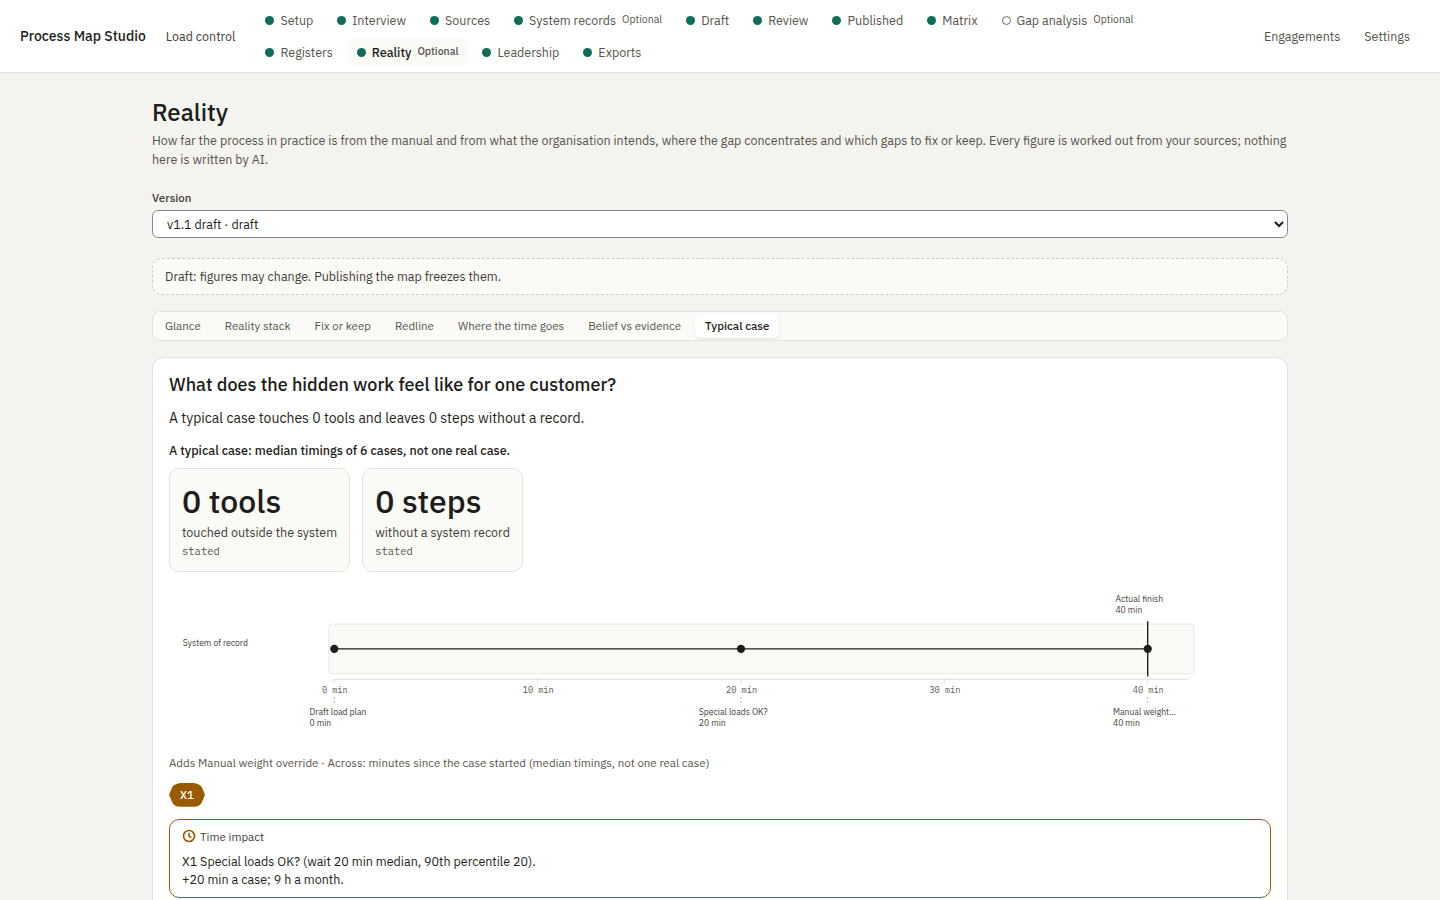
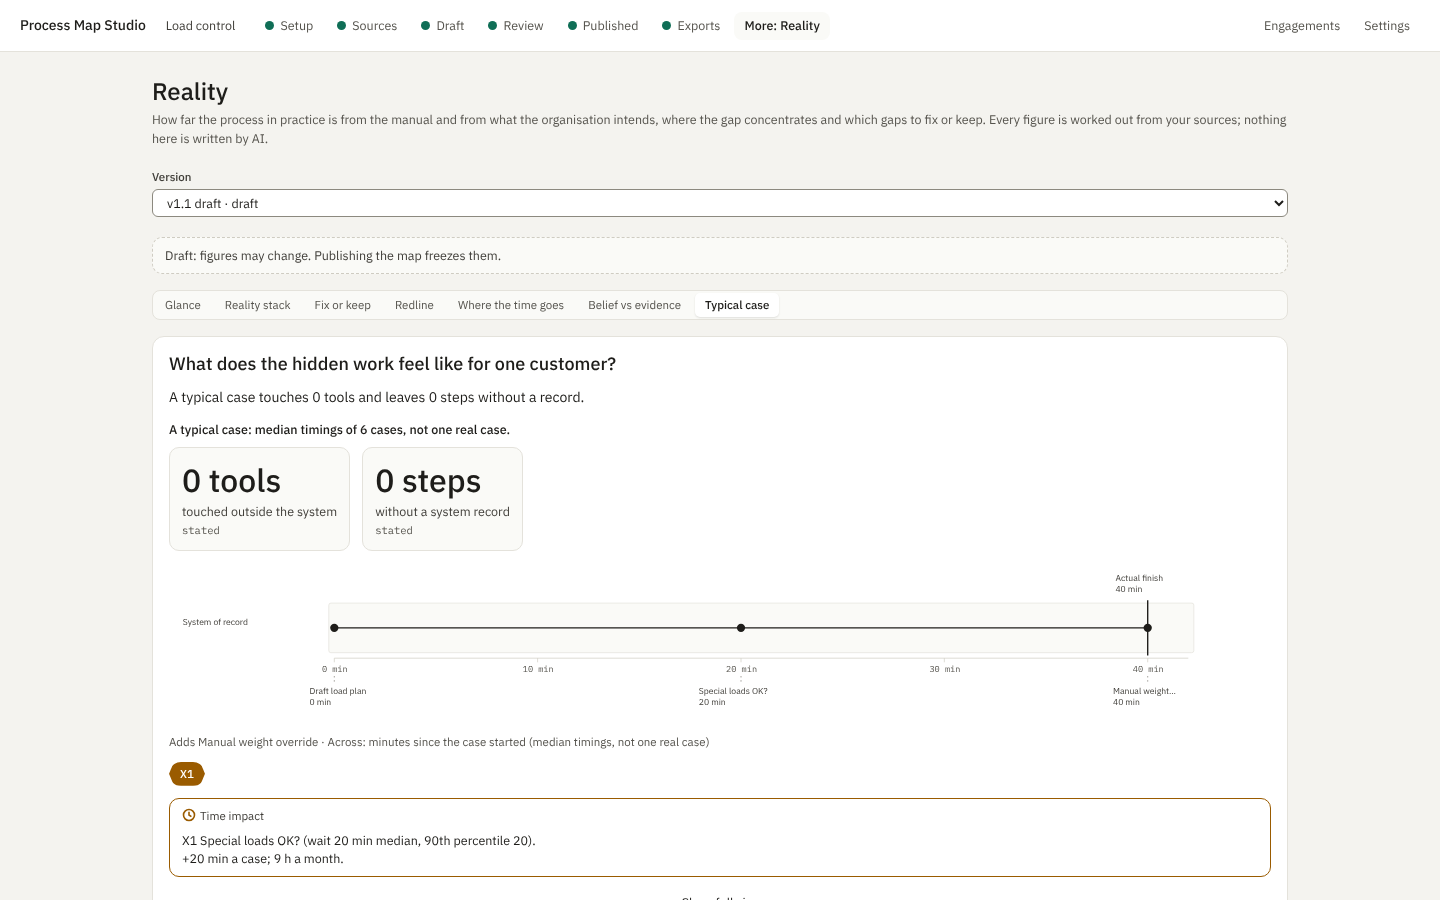
Make the approved Review and Reality screenshots the baselines
Eric approved the nine screenshots changed by the What to do next card
and the shorter top bar: Review at 1440x900 and 1080x800, and the seven
Reality views (only the top bar changed). DECISIONS 79.

14 of 14 checks passing.

Claude-Session: https://claude.ai/code/session_015fu8rvp8x8i73CNVXAvCz5

diff --git a/PROJECT_STATE.md b/PROJECT_STATE.md
@@ -352,7 +352,7 @@ P12 follows PRD §6.3 P12, §3.10 (clean-clone rehearsal, v1.0.0 release) and §
 ## How to resume (write this as if for a stranger)
 **Update 2026-10-12:** PRD v1.12 is in the repository (Reality views, P13). Eric reviews the design canvas and the PRD; if he approves, the order stays: R10 → R11 → R12 (close P10b) → P12 live run → P13a–P13d (PRD §8 "Feature prompt: Reality views"). Nothing in v1.12 changes built behaviour except the proposed coral clean-up (needs his approval of new Review baselines).
 
-**Update 2026-10-13:** Eric approved v1.12 and R10. R10 is done (R10a Settings Regional and Optional modules; R10b the panel's Disposition and value; R10c the Disposition and value register), each commit 13 of 13 checks and pushed. No visual baseline changed (everything new sits behind the value switch, off by default). **Update 2026-10-13 (later):** R11 and R12 done; **P10b is closed** (tag `phase-p10b`). **Resume point:** the P12 live run with Eric's key (P12-5, then P12-6 close P12 and v1.0.0), then P13a–P13d (PRD §8 "Feature prompt: Reality views"). Still waiting for Eric: the coral clean-up proposal at P13a. **Update 2026-10-13 (P13a):** Eric approved P13a ahead of the live run. **P13a is closed** (tag `phase-p13a`). **Waiting for Eric:** approval of the coral clean-up candidates (Time lens wait hatch in the time colour). **Resume point:** P13b (Reality screen I) on Eric's go-ahead; the P12 live run whenever Eric has his key ready. **Update 2026-10-14:** F1 (system alignment survives a refresh) and F2 (incomplete-data sweep, 11 combinations, no defects) done before P13b, at Eric's request. **P13b is closed** (tag `phase-p13b`). **Resume point:** P13c (Redline, Where the time goes, Belief vs evidence, Typical case) on Eric's go-ahead. Still waiting for Eric: the coral clean-up candidates; the P12 live run with his key. **Update 2026-10-15:** Eric approved the coral clean-up (applied) and P13c. **P13c is closed** (tag `phase-p13c`, local). **Resume point:** P13d (Reality pack, RQ1–RQ10, G11, visual baselines after Eric approves the candidates). **Waiting for Eric:** the scope-card question for the "Outside the organisation" lane (DECISIONS 47); whether Leadership's wait hatch should also move to the time colour; the P12 live run with his key. **Update 2026-10-15 (later):** Eric said yes to both: E1 (scope card tick boxes and the outside lane) and E2 (Leadership's hatch in the time colour) are done. **Resume point:** P13d. **Waiting for Eric:** the P12 live run with his key. **Update 2026-10-16:** P13d is built (Reality pack in A3 and 16:9, RQ1–RQ10 as their own check, the G11 candidate, candidate screenshots, the comprehension test protocol, README and GUIDE). **Waiting for Eric:** approve `docs/screens/p13d-candidate-*.png` and `docs/review/G11_*` (then copy the G11 files into `backend/tests/golden/` and add the screenshot comparisons), run `docs/comprehension_test.md` and give the results (log them in DECISIONS.md); then tag `phase-p13` (local; tag pushes are refused). Also still: the P12 live run with his key. **Update 2026-10-18:** Eric approved the screenshots and G11; both are baselines now (DECISIONS 61). **Waiting for Eric:** the comprehension test results; then tag `phase-p13`. **Update 2026-10-20:** At Eric's request a map can now be drafted from documents alone (an SOP or manual, no interview): readiness, a Limited "documents only" signal with its own warning, question wording, the Review screen opening As documented, the Draft checklist and Sources readiness line; mock fixtures, a journey test and two new F2 scenarios (DECISIONS 75). No visual baseline changed. Then three Review wordings fixed after Eric saw the screenshots: the As done legend, "Not stated" for a cycle time with no times, "No steps described yet" for an empty view (DECISIONS 76). **Update 2026-10-28:** Eric's live run (key works) on his single-source cargo manual led to DECISIONS 77: diagram pages read box by box with their team labels; logos never suggested and each picture suggested once, with Discard all; a stamped draft map download; Accept remaining steps as drafted; a What to do next card and grouped Publish blocked list; a slimmer bar with More; Review opens on the view with more steps; a Setup hint for documents covering several flows. Five Reality pack baselines were re-rendered for the newer test browser with Eric's approval (DECISIONS 78). **Waiting for Eric:** approval of the new Review and Reality screenshots (the What to do next card and the More button change them); the comprehension test (then tag `phase-p13`). **Waiting for Eric:** the comprehension test results (then tag `phase-p13`); the P12 live run with his key.
+**Update 2026-10-13:** Eric approved v1.12 and R10. R10 is done (R10a Settings Regional and Optional modules; R10b the panel's Disposition and value; R10c the Disposition and value register), each commit 13 of 13 checks and pushed. No visual baseline changed (everything new sits behind the value switch, off by default). **Update 2026-10-13 (later):** R11 and R12 done; **P10b is closed** (tag `phase-p10b`). **Resume point:** the P12 live run with Eric's key (P12-5, then P12-6 close P12 and v1.0.0), then P13a–P13d (PRD §8 "Feature prompt: Reality views"). Still waiting for Eric: the coral clean-up proposal at P13a. **Update 2026-10-13 (P13a):** Eric approved P13a ahead of the live run. **P13a is closed** (tag `phase-p13a`). **Waiting for Eric:** approval of the coral clean-up candidates (Time lens wait hatch in the time colour). **Resume point:** P13b (Reality screen I) on Eric's go-ahead; the P12 live run whenever Eric has his key ready. **Update 2026-10-14:** F1 (system alignment survives a refresh) and F2 (incomplete-data sweep, 11 combinations, no defects) done before P13b, at Eric's request. **P13b is closed** (tag `phase-p13b`). **Resume point:** P13c (Redline, Where the time goes, Belief vs evidence, Typical case) on Eric's go-ahead. Still waiting for Eric: the coral clean-up candidates; the P12 live run with his key. **Update 2026-10-15:** Eric approved the coral clean-up (applied) and P13c. **P13c is closed** (tag `phase-p13c`, local). **Resume point:** P13d (Reality pack, RQ1–RQ10, G11, visual baselines after Eric approves the candidates). **Waiting for Eric:** the scope-card question for the "Outside the organisation" lane (DECISIONS 47); whether Leadership's wait hatch should also move to the time colour; the P12 live run with his key. **Update 2026-10-15 (later):** Eric said yes to both: E1 (scope card tick boxes and the outside lane) and E2 (Leadership's hatch in the time colour) are done. **Resume point:** P13d. **Waiting for Eric:** the P12 live run with his key. **Update 2026-10-16:** P13d is built (Reality pack in A3 and 16:9, RQ1–RQ10 as their own check, the G11 candidate, candidate screenshots, the comprehension test protocol, README and GUIDE). **Waiting for Eric:** approve `docs/screens/p13d-candidate-*.png` and `docs/review/G11_*` (then copy the G11 files into `backend/tests/golden/` and add the screenshot comparisons), run `docs/comprehension_test.md` and give the results (log them in DECISIONS.md); then tag `phase-p13` (local; tag pushes are refused). Also still: the P12 live run with his key. **Update 2026-10-18:** Eric approved the screenshots and G11; both are baselines now (DECISIONS 61). **Waiting for Eric:** the comprehension test results; then tag `phase-p13`. **Update 2026-10-20:** At Eric's request a map can now be drafted from documents alone (an SOP or manual, no interview): readiness, a Limited "documents only" signal with its own warning, question wording, the Review screen opening As documented, the Draft checklist and Sources readiness line; mock fixtures, a journey test and two new F2 scenarios (DECISIONS 75). No visual baseline changed. Then three Review wordings fixed after Eric saw the screenshots: the As done legend, "Not stated" for a cycle time with no times, "No steps described yet" for an empty view (DECISIONS 76). **Update 2026-10-28:** Eric's live run (key works) on his single-source cargo manual led to DECISIONS 77: diagram pages read box by box with their team labels; logos never suggested and each picture suggested once, with Discard all; a stamped draft map download; Accept remaining steps as drafted; a What to do next card and grouped Publish blocked list; a slimmer bar with More; Review opens on the view with more steps; a Setup hint for documents covering several flows. Five Reality pack baselines were re-rendered for the newer test browser with Eric's approval (DECISIONS 78). Eric approved the nine changed Review and Reality screenshots; they are the baselines (DECISIONS 79). **Waiting for Eric:** the comprehension test (then tag `phase-p13`); a fresh draft of his manual, one engagement per flow. **Waiting for Eric:** the comprehension test results (then tag `phase-p13`); the P12 live run with his key.
 0. **First read "End of session 18" above** (PRD v1.11: decisions A–C and approvals waiting for Eric, then the plan in order). The P12 live run below is still open and comes after the core gaps and P4c.
 1. The next task is: P12 increment 5, the live run (the interview templates, G9 and the anti-drift guardrails D1–D3 are done, 2026-09-30). When Eric re-runs it, the live report's drafts now carry run records; a prompt change during tuning needs a new prompt version and `PMS_UPDATE_LOCK=1` (the instruction lock). Update 2026-09-29: Eric now prefers to run it **on his own Windows PC** with the key saved in the app's Settings (the test reads the app's .env, read only); the chat gave him the steps (`setup.bat --dev`, then from `backend`: `..\.venv\Scripts\python -m pytest -m live -s tests\live` with `PMS_LIVE_REPORT` in his Documents folder). Ask him for the report and record it. The cloud route below remains possible. Originally Eric chose to run it in the cloud: he adds `ANTHROPIC_API_KEY` as an environment variable in the cloud environment's settings, and a **new** session picks it up (check with `env | grep -c ^ANTHROPIC_API_KEY=`, never print the value). Then run `cd backend && PMS_LIVE_REPORT=/tmp/live-evaluation.md ../.venv/bin/pytest -m live -s` (about an hour; two drafts, Analysis A and B; billed to Eric). If Analysis B reports "Web search isn't enabled", record B1–B3 as not run and tell Eric the README fix. Record the report's table in DECISIONS.md and the result in `docs/RELEASE_NOTES_v1.0.0.md` ("How it was checked") and GUIDE's "What changed". Tune prompts only if a threshold is missed (PRD §6.3; three failed attempts → stop and report). Then increment 6: tag `phase-p12` and `v1.0.0` (tag pushes fail from the cloud: say so), and ask Eric to create the GitHub release from `docs/RELEASE_NOTES_v1.0.0.md` (Releases → Draft a new release → tag v1.0.0 → paste the notes) after merging. Check the merge status of the working branch first (if merged, restart it from `main`).
 2. The relevant files are: `backend/tests/live/` (evaluation.py scorer, capture.py, test_live_run.py), `backend/tests/unit/test_live_evaluation.py`, `docs/RELEASE_NOTES_v1.0.0.md`, GUIDE.md, README.md. The approved visual baselines are `docs/screens/p7-review-1440x900.png` and the new `p7-review-1080x800.png` (step bar wraps; approved 2026-09-29); `docs/screens/P12_VISUAL_PASS.md` is the final visual pass.

diff --git a/DECISIONS.md b/DECISIONS.md
@@ -496,3 +496,4 @@ Compared with `git diff PRD_ProcessMapStudio.md` (v1.10 → v1.11, +228 / −35 
 | 76 | (2026-10-20, Eric: "fix all three", after the documents-only screenshots) **Three Review wordings that were wrong or odd with no interview.** (1) The As done legend's "not described" key said "the lived account doesn't say what happens between"; it now says "no interview or system record says what happens between", true with or without an interview and the same words as the L12 warning (DECISIONS 75). (2) The header strip's cycle time showed "~0 min elapsed, ~0 min work" when no step on the main path states a time; it now says "Not stated" (with the existing "Incomplete: n steps without time" line). This also applies to interview maps that state no times. (3) A view with no step at all (As done of a documents-only map) drew one unnamed lane as "No lane · 0 steps"; it now reads "No steps described yet", without a count. Frontend only; no figure, export or backend output changed. Tests first (`views.test.tsx`, `review.test.tsx`). No approved screenshot shows any of the three (the sample states times and has steps As done), so no baseline changes. | Seen on the documents-only screenshots; "0 min" read as a measured time and "the lived account" named a source the map doesn't have. | `MapLegend.tsx`, `HeaderStrip.tsx`, `MapStage.tsx`, PRD §5.7.2 |
 | 77 | (2026-10-28, Eric, after a live run on his single-source cargo manual: "I had to confirm many missing and inconsistent details before I could publish … I would like to see the whole picture at any one time … the navigation … appears overwhelming"; he chose every recommended option) **See the whole map first, then work through it in order.** Diagnosis on his manual (39 pages; the process is one flow diagram on page 15): the PDF reader joined the page's two columns and the team labels line by line (as the illustrative fixture shows: "1. PLAN THE LOAD A. ACCEPT CARGO"), so a stage's team was split from its activities and most claims failed the role check (33 rejected, 16 steps); the same company logo on all 39 pages plus 7 icons became 72 picture suggestions, one per icon per step citing page 15, each blocking Publish. The Copilot map he compared with also draws on other sources (department names from an HR file and internal system names, none of which are in this manual); the app still never adds what its sources don't say. Changes: (1) **Diagram pages are read box by box** (`parsing._diagram_page`): a page with three or more separate boxed stages (not touching like table cells) gives one passage per box, its lines joined, with the team label printed beside it in front ("RAMP TEAM: 2. LOAD THE AIRCRAFT • …"), column by column; other pages, tables included, are read as before. On his manual only page 15 qualifies and all 13 boxes come out whole with their labels. No grounding rule changed: the label is in the same passage, so the role check finds it, and a claim naming a team the page doesn't show is still rejected (tested). (2) **Pictures:** one found on 3 or more pages (logo, header) is never saved; each other picture is suggested once, on the first step citing its page; **Discard all suggested pictures** in one go (`POST …/images/discard-suggestions`, one audit row). (3) **Draft map download:** a draft's interactive HTML map (`GET …/export/html` on a draft), stamped "Draft: not reviewed, not published. n of N steps reviewed. Nothing in it is validated yet.", each step with its review state; md, json and csv still wait for publishing, and publishing still needs every step reviewed and every hard check green (constraint 8 unchanged). The published HTML is byte-identical (G5 unchanged). (4) **Accept remaining steps as drafted** (`POST …/accept-remaining`, whole map or one phase) confirms the unreviewed steps that need nothing fixed and lists the ones left for Eric (a map check fails on them, or the verifier found them only partly supported); one audit row. (5) **What to do next** (`GET …/next-steps`): the publish blockers grouped by what to do, in order (fix map problems · check partly supported steps · decide merges · review steps · pictures · publish); Review shows at most three with one button each and **Download draft map**; Publish blocked shows the same groups instead of check codes. (6) **Slimmer bar:** Setup · Sources · Draft · Review · Published · Exports, with **More** for Interview, System records, Matrix, Gap analysis, Registers, Reality and Leadership (it carries their attention count, the Next chip and the current screen). (7) Review opens on the view that draws more of the map (As done on a tie), saying why when it opens As documented. (8) Setup says one engagement maps one flow; a document covering several (import, export, transhipment) is uploaded to one engagement per flow. Tests first throughout; a new illustrative fixture `process_flow_diagram.pdf` (his restricted manual is not in the repository) and its mock answers (`make_ai_fixtures.py diagram`, new files only); a diagram-manual journey test (draft, role check, trap rejected, pictures, draft download, next steps, accept, discard, exits added, publish); the diagram manual added to the F2 sweep; nav and Publish-blocked tests updated to the new behaviour Eric chose. | Eric's live run and his choices. Constraint 8 stays: nothing is published unreviewed; accepting in bulk is Eric confirming, logged. | `services/parsing.py`, `actions/images.py`, `actions/next_steps.py`, `actions/publish.py`, `services/export_html.py`, routers, `lib/views.ts`, `EngagementNav.tsx`, `NextStepsCard.tsx`, `NextStepsList.tsx`, `PublishControls.tsx`, `ScopeCard.tsx`, contract, PRD §3.7 S0, §4, §5.3, §5.7.0 |
 | 78 | (2026-10-28, Eric approved) **Five Reality pack baselines re-rendered; the pack's date pinned in the comparison.** The cloud container was rebuilt with a newer test browser (Chrome for Testing 153), which draws text very slightly differently: 5 pack pages (A3 recommendation and appendix, 16:9 Reality stack, recommendation and appendix) differed by about 2% with the same content. Eric approved replacing them with today's renderings, and the screenshot test now sets the pack's "validated … on <date>" to 2026-10-28 before comparing, so another day can't fail it (only the date is changed; everything else is compared). | Nothing in the app changed; a baseline must not fail on the calendar. | `docs/screens/p13d-pack-*.png` (5), `frontend/tests/e2e/smoke.spec.ts` |
+| 79 | (2026-10-28, Eric: "Approved, make them baselines") **Nine screenshots changed by DECISIONS 77 become the baselines:** Review at 1440 × 900 and 1080 × 800 (the What to do next card, the shorter top bar with More) and the seven Reality views (only the top bar changed, "More: Reality"). | Eric approved the candidates before they replaced the files (visual baselines change only after his approval). | `docs/screens/p7-review-*.png`, `docs/screens/p13d-reality-*.png` |
